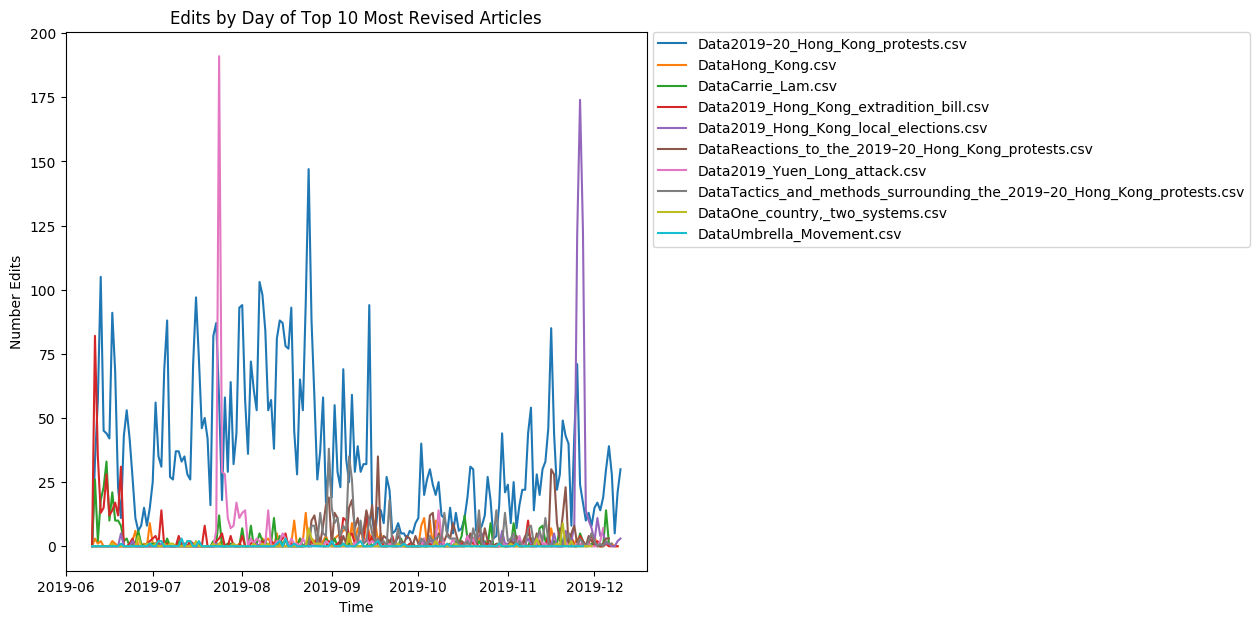
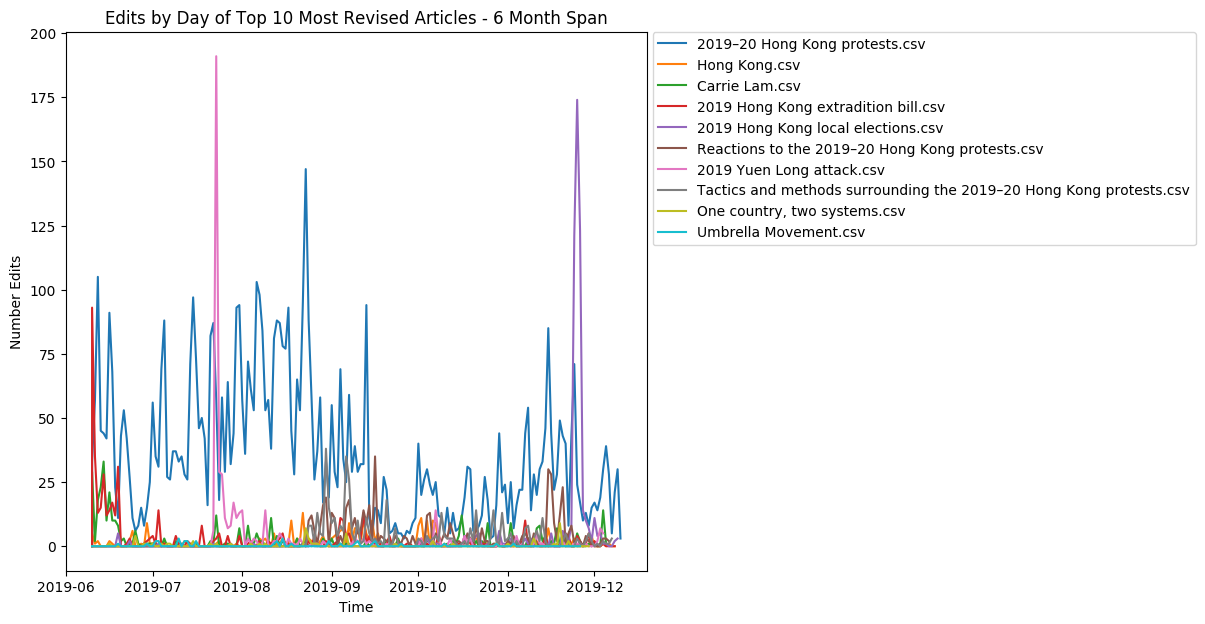
Edited the graphs for multi-line code to fix off by one bug.

diff --git a/multiline.py b/multiline.py
@@ -27,7 +27,7 @@ start = time.time()
 
 # folder of files
 path = "10 Year Revision Data"
-plotPath = "figures/Multi-Line"
+plotPath = "figures/Multi-Line/new"
 
 directories = ["figures"]
 
@@ -58,6 +58,8 @@ titles = add_revision_talk_pages(titles)
 #     if (not (os.path.isfile(os.path.join(path, "Redirects" + title)))):
 #         filename = "Redirects" + title
 #         titleArray.remove(filename)
+
+# To handle data format for '10 Year Revision Data'
 titles = [add_file_extension(title) for title in titles]
 titleArray = []
 for title in titles:
@@ -106,22 +108,39 @@ def makeMultipleLineFigure(titleArray, titles):
         key = title[:-4]
         if key[0:4]!="Talk":
             article = dataDict[key]
+            sizeOfArticle = article.shape[0]
             newDate = dt.fromtimestamp(startDate)
+            prevDate = newDate
             days = []
             counts = []
             #counts the edits
+            dayCount = 0
             edits = 0
             for day in article['timestamp']:
                 editTime = dt.strptime(day, "%Y-%m-%dT%H:%M:%SZ")
-                while(editTime > newDate):
-                    counts.append(edits)
-                    epoch = int(newDate.timestamp())
-                    days.append(dt.fromtimestamp(epoch))
-                    # newDate = newDate + timedelta(days=1)
-                    # newDate = newDate + timedelta(days=7)
-                    newDate = newDate + timedelta(days=30)
-                    edits = 0
-                edits += 1
+                if editTime >= dt.fromtimestamp(startDate):
+                    dayCount += 1
+                    while(editTime > newDate):
+                        counts.append(edits)
+                        # Changed to prevDate so that edits are paired with the
+                        # correct timedelta.
+                        epoch = int(prevDate.timestamp())
+                        days.append(dt.fromtimestamp(epoch))
+                        # newDate = newDate + timedelta(days=1)
+                        # newDate = newDate + timedelta(days=7)
+                        # prevDate keeps track of the date before newDate
+                        prevDate = newDate
+                        newDate = newDate + timedelta(days=1)
+                        edits = 0
+                    edits += 1
+                    # Edge case for last timedelta in articles
+                    if dayCount == sizeOfArticle:
+                        counts.append(edits)
+                        # Changed to prevDate so that edits are paired with the
+                        # correct timedelta.
+                        epoch = int(prevDate.timestamp())
+                        days.append(dt.fromtimestamp(epoch))
+
             plt.plot(days, counts, label= title)
             plt.gcf().set_size_inches(15,7)
 
@@ -146,7 +165,7 @@ for title in titleArray:
         dataTitleArray.append(title[:-4])
 
 #makeMultipleLineFigure(titleArray, "Edits by Day of Top 10 Most Revised Articles")
-makeMultipleLineFigure(titleArray, "Edits by Month of Top 10 Most Revised Articles")
+makeMultipleLineFigure(titleArray, "Edits by Week of Top 10 Most Revised Articles")
 
 
 end = time.time()
